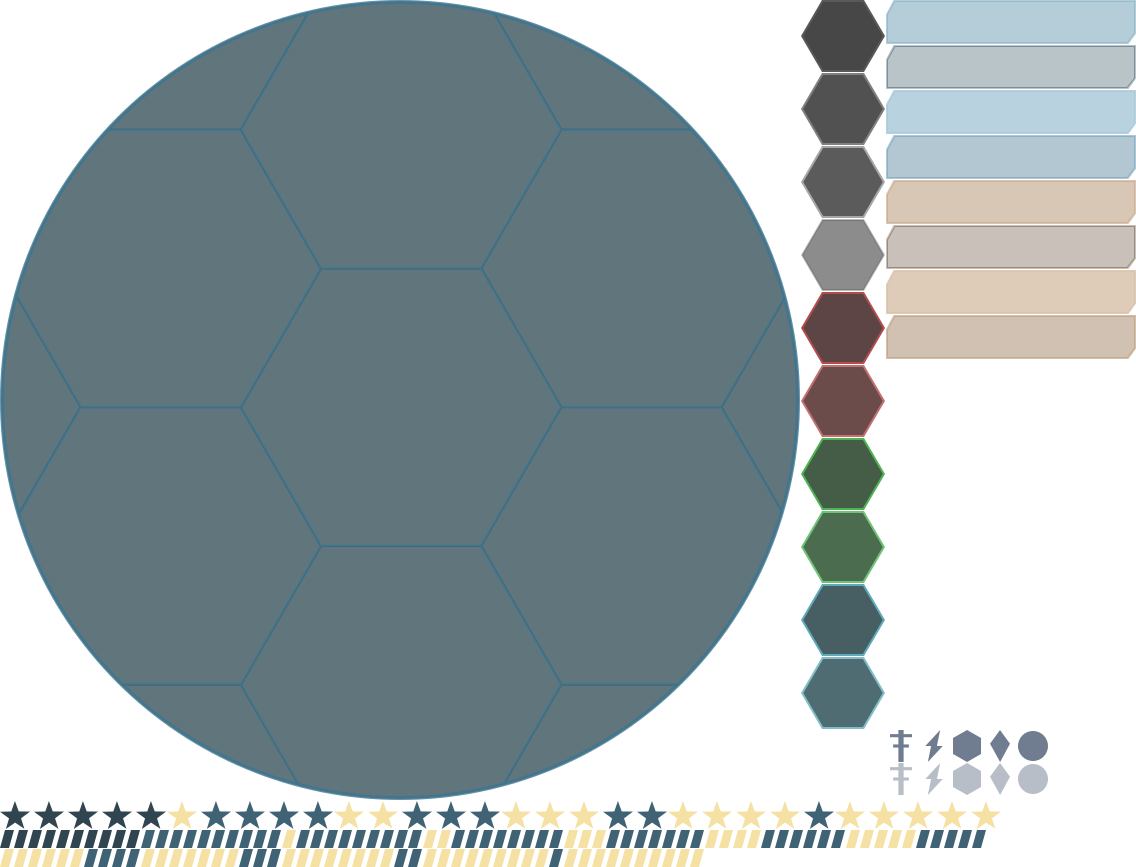
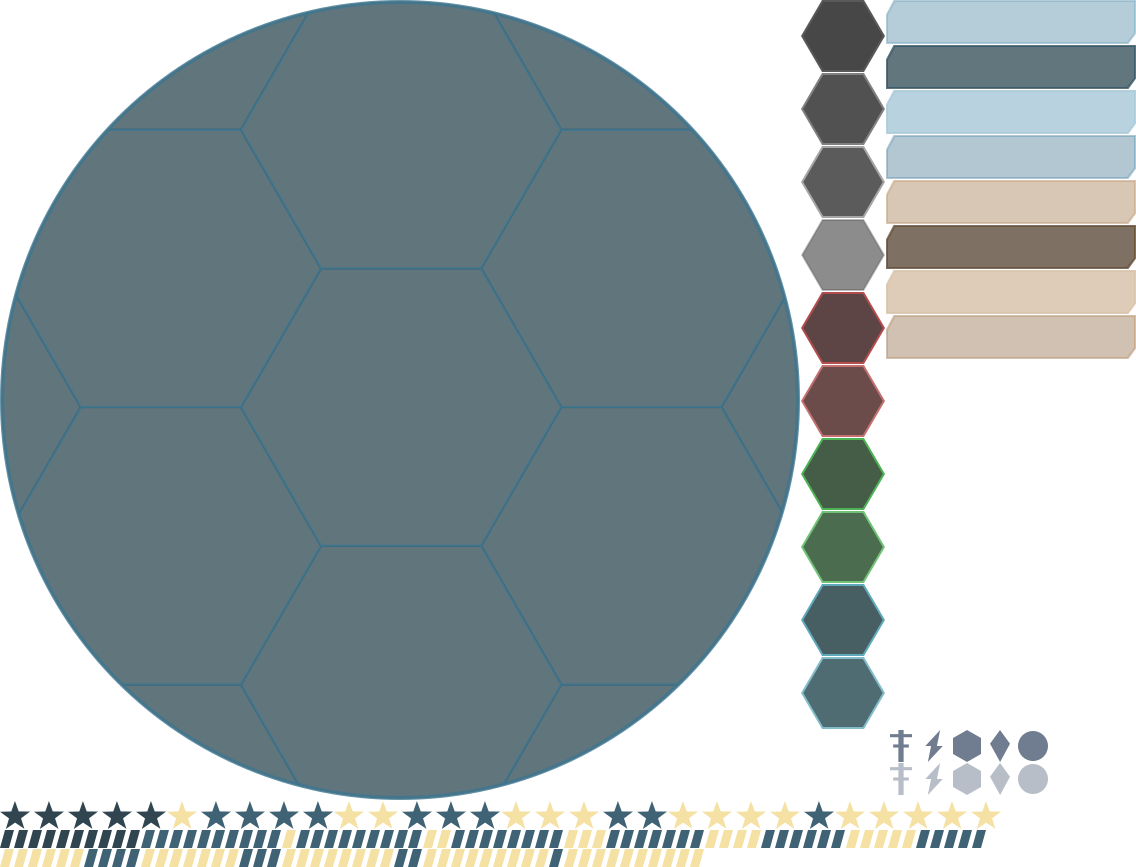
Update graphics of planet map buttons

Changed region(s): [[0.7702, 0.0311, 1.0, 0.1246], [0.7702, 0.2491, 1.0, 0.3114]]

diff --git a/src/Widgets/ButtonPlanetMap.cpp b/src/Widgets/ButtonPlanetMap.cpp
@@ -12,7 +12,7 @@ ButtonPlanetMap::ButtonPlanetMap(sgl::sgui::Widget * parent) :
     GameButton(SpriteFilePlanetMap,
         { IND_PM_BTN_NORMAL, IND_PM_BTN_DISABLED, IND_PM_BTN_OVER,
           IND_PM_BTN_PRESSED, IND_PM_BTN_NORMAL },
-        { 0xd7eaf4ff, 0x506c7cff, 0xebf4f9ff, 0xc3dfeeff, 0xd7eaf4ff },
+        { 0xd7eaf4ff, 0x335f73b2, 0xebf4f9ff, 0xc3dfeeff, 0xd7eaf4ff },
         parent)
 {
     const char * fileFont = "data/fonts/Lato-Regular.ttf";
@@ -27,7 +27,7 @@ SecondaryButtonPlanetMap::SecondaryButtonPlanetMap(sgl::sgui::Widget * parent) :
     GameButton(SpriteFilePlanetMap,
         { IND_PM_BTN2_NORMAL, IND_PM_BTN2_DISABLED, IND_PM_BTN2_OVER,
           IND_PM_BTN2_PRESSED, IND_PM_BTN2_NORMAL },
-        { 0xf4e5d7ff, 0x7c6650ff, 0xf9f2ebff, 0xeed9c3ff, 0xf4e5d7ff },
+        { 0xf4e5d7ff, 0x735333b2, 0xf9f2ebff, 0xeed9c3ff, 0xf4e5d7ff },
         parent)
 {
     const char * fileFont = "data/fonts/Lato-Regular.ttf";
